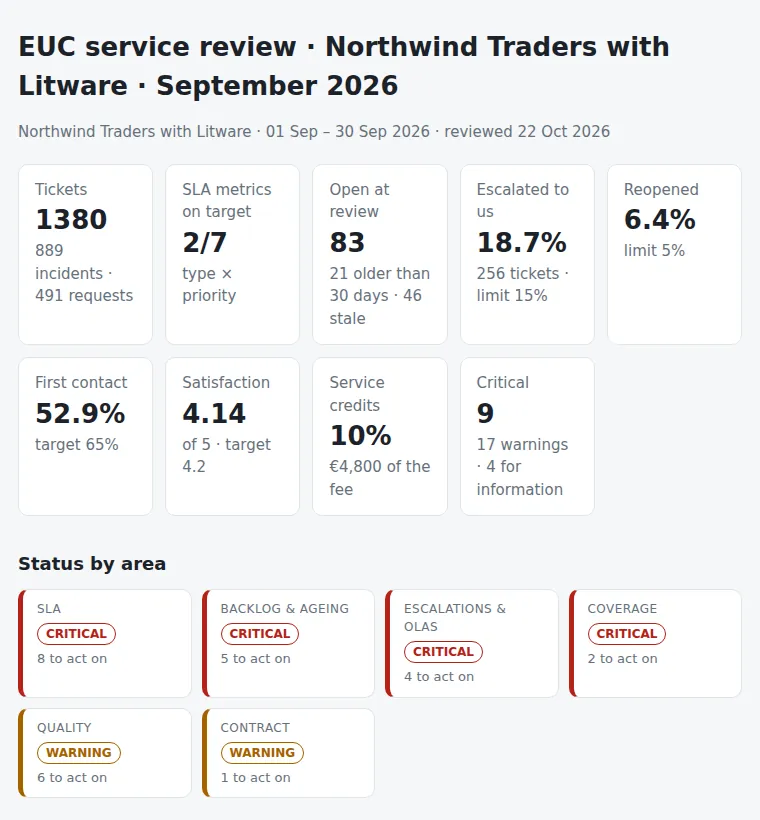
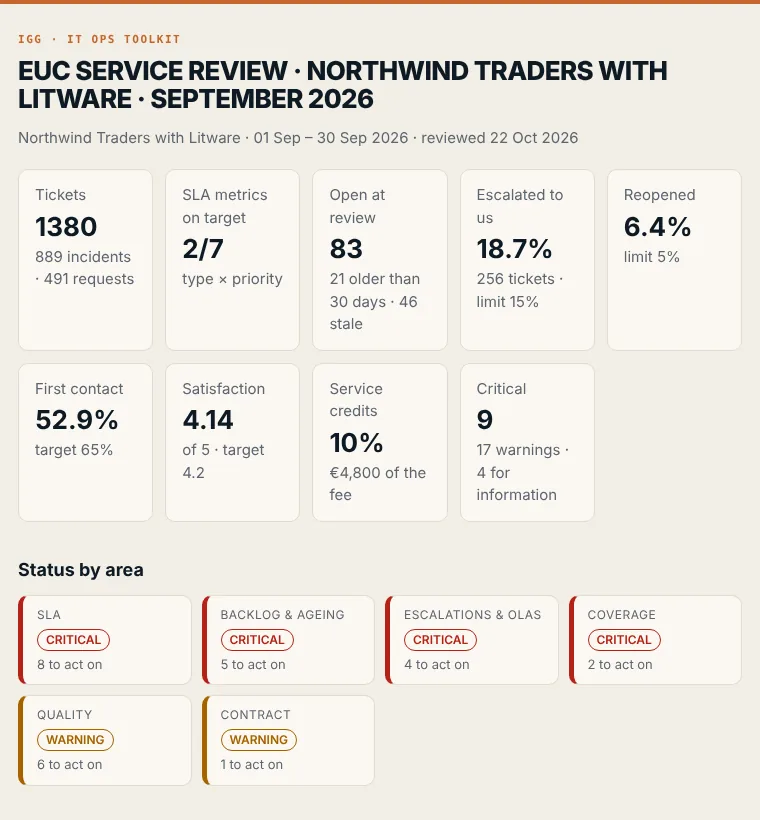
Report: IGG colours (paper, ink and the orange accent) and a new screenshot

diff --git a/eucreview/report.py b/eucreview/report.py
@@ -157,9 +157,9 @@ def review_md(d: Data, findings: list[Finding], c: Config | None = None) -> str:
 # ---------------------------------------------------------------- HTML
 
 CSS = """
-:root{--bg:#f6f7f8;--card:#fff;--ink:#1b2128;--muted:#66717c;--line:#e2e5e9;--ok:#1e7a4c;--warn:#a46200;--bad:#b42318;--info:#0b6bcb;--na:#8a94a0}
-@media (prefers-color-scheme:dark){:root{--bg:#13171b;--card:#1b2127;--ink:#e7eaee;--muted:#9aa5b0;--line:#2b333b;--ok:#4cc38a;--warn:#f0a83a;--bad:#f2685c;--info:#5aa9f0;--na:#6d7782}}
-*{box-sizing:border-box}body{margin:0;background:var(--bg);color:var(--ink);font:15px/1.5 system-ui,-apple-system,Segoe UI,sans-serif}
+:root{--bg:#f2eee6;--card:#fbf8f3;--ink:#0e1a24;--muted:#5d6670;--line:#e2dccf;--ok:#1e7a4c;--warn:#a46200;--bad:#b42318;--info:#1f5f8b;--na:#8a94a0}
+@media (prefers-color-scheme:dark){:root{--bg:#0e1a24;--card:#142331;--ink:#f2eee6;--muted:#a9b3bb;--line:#24364a;--ok:#4cc38a;--warn:#f0a83a;--bad:#f2685c;--info:#5aa9f0;--na:#6d7782}}
+*{box-sizing:border-box}body{border-top:4px solid #c4672b}h1{font-weight:800;letter-spacing:-.025em;text-transform:uppercase;line-height:1.05}h1::before{content:"IGG · IT Ops toolkit";display:block;font:600 11px/1.4 ui-monospace,SFMono-Regular,Menlo,monospace;letter-spacing:.14em;text-transform:uppercase;color:#c4672b;margin-bottom:10px}body{margin:0;background:var(--bg);color:var(--ink);font:15px/1.5 system-ui,-apple-system,Segoe UI,sans-serif}
 main{max-width:1100px;margin:0 auto;padding:28px 18px 60px}h1{font-size:26px;margin:0 0 4px}h2{font-size:18px;margin:34px 0 12px}
 .muted{color:var(--muted)}.tiles{display:grid;grid-template-columns:repeat(auto-fit,minmax(118px,1fr));gap:12px;margin-top:20px}
 .tile{background:var(--card);border:1px solid var(--line);border-radius:10px;padding:14px 16px}.tile b{display:block;font-size:26px}
